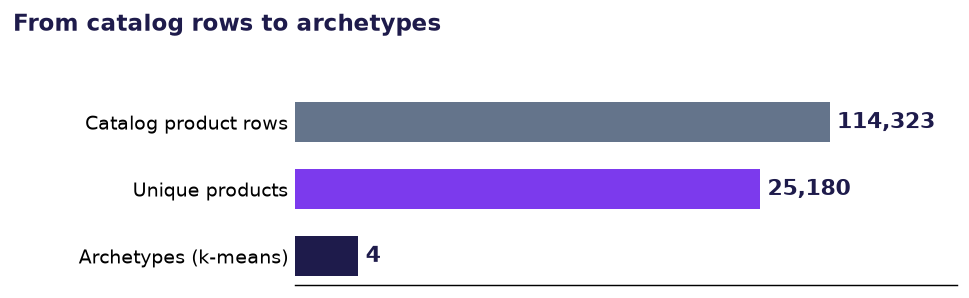
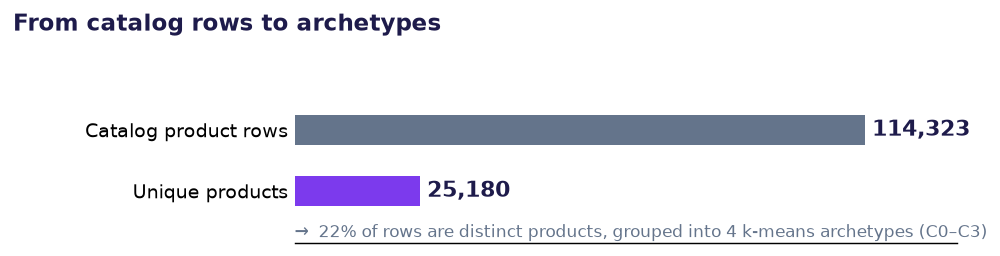
fix(analysis): draw funnel bars in linear proportion
Replace log10-scaled widths with linear counts so unique products show as
~22% of catalog rows; note the 4 archetypes rather than mis-scaling them.

Changed region(s): [[0.0619, 0.3125, 0.9907, 0.9688], [0.0, 0.0312, 0.4644, 0.1562]]

diff --git a/analysis/method_figures.py b/analysis/method_figures.py
@@ -67,22 +67,27 @@ samp = rng.choice(len(X), size=min(6000, len(X)), replace=False)
 
 
 # --------------------------------------------------------------- 1 · funnel
+# Two count stages drawn with LINEAR widths so the bars are in correct
+# proportion (unique products are ~22% of raw rows). The 4 archetypes are a
+# count of groups, not of items, so they are noted rather than mis-scaled.
 fig, ax = plt.subplots(figsize=(7.6, 2.3))
-fig.subplots_adjust(top=0.72, left=0.30, right=0.97, bottom=0.08)
-stages = ["Catalog product rows", "Unique products", "Archetypes (k-means)"]
-vals = [int(len(df)), int(len(agg)), 4]
-colors = [MUTED, VIOLET, INK]
-y = np.arange(len(stages))[::-1]
-ax.barh(y, [np.log10(v) for v in vals], color=colors, height=0.6)
-for yi, v in zip(y, vals):
-    ax.text(np.log10(v) + 0.07, yi, f"{v:,}", va="center", ha="left",
+fig.subplots_adjust(top=0.70, left=0.30, right=0.97, bottom=0.22)
+rows_n, prod_n = int(len(df)), int(len(agg))
+vals = [rows_n, prod_n]
+ax.barh([1, 0], vals, color=[MUTED, VIOLET], height=0.5)
+for yi, v in zip([1, 0], vals):
+    ax.text(v + rows_n * 0.012, yi, f"{v:,}", va="center", ha="left",
             fontsize=12, fontweight="bold", color=INK)
-ax.set_yticks(y)
-ax.set_yticklabels(stages, fontsize=10.5)
+ax.set_yticks([1, 0])
+ax.set_yticklabels(["Catalog product rows", "Unique products"], fontsize=10.5)
+ax.set_xlim(0, rows_n * 1.16)
+ax.set_ylim(-0.85, 1.5)
 ax.set_xticks([])
-ax.set_xlim(0, np.log10(max(vals)) + 1.2)
 ax.spines.left.set_visible(False)
 ax.tick_params(length=0)
+ax.text(0, -0.68, f"→  {prod_n/rows_n:.0%} of rows are distinct products, "
+        "grouped into 4 k-means archetypes (C0–C3)",
+        fontsize=9.5, color=MUTED, ha="left", va="center")
 title(fig, "From catalog rows to archetypes")
 fig.savefig(OUT / "method_funnel.png", dpi=130, bbox_inches="tight")
 plt.close(fig)
